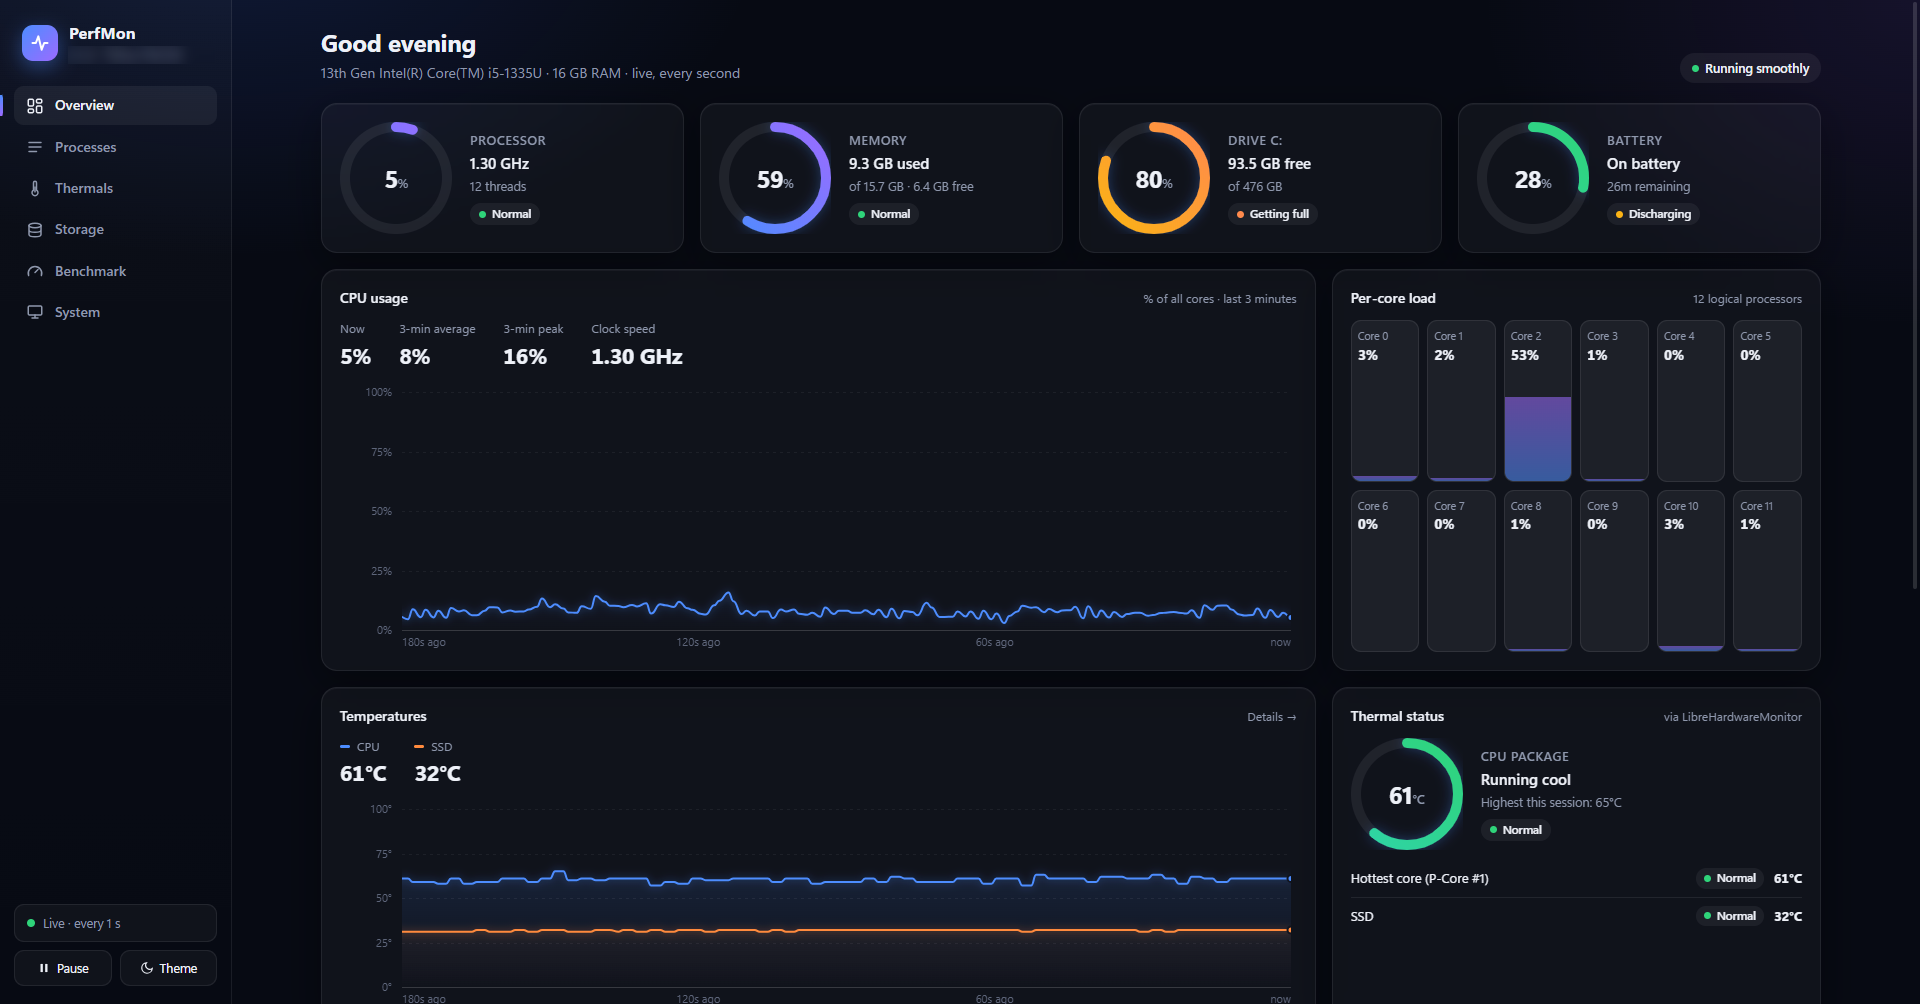
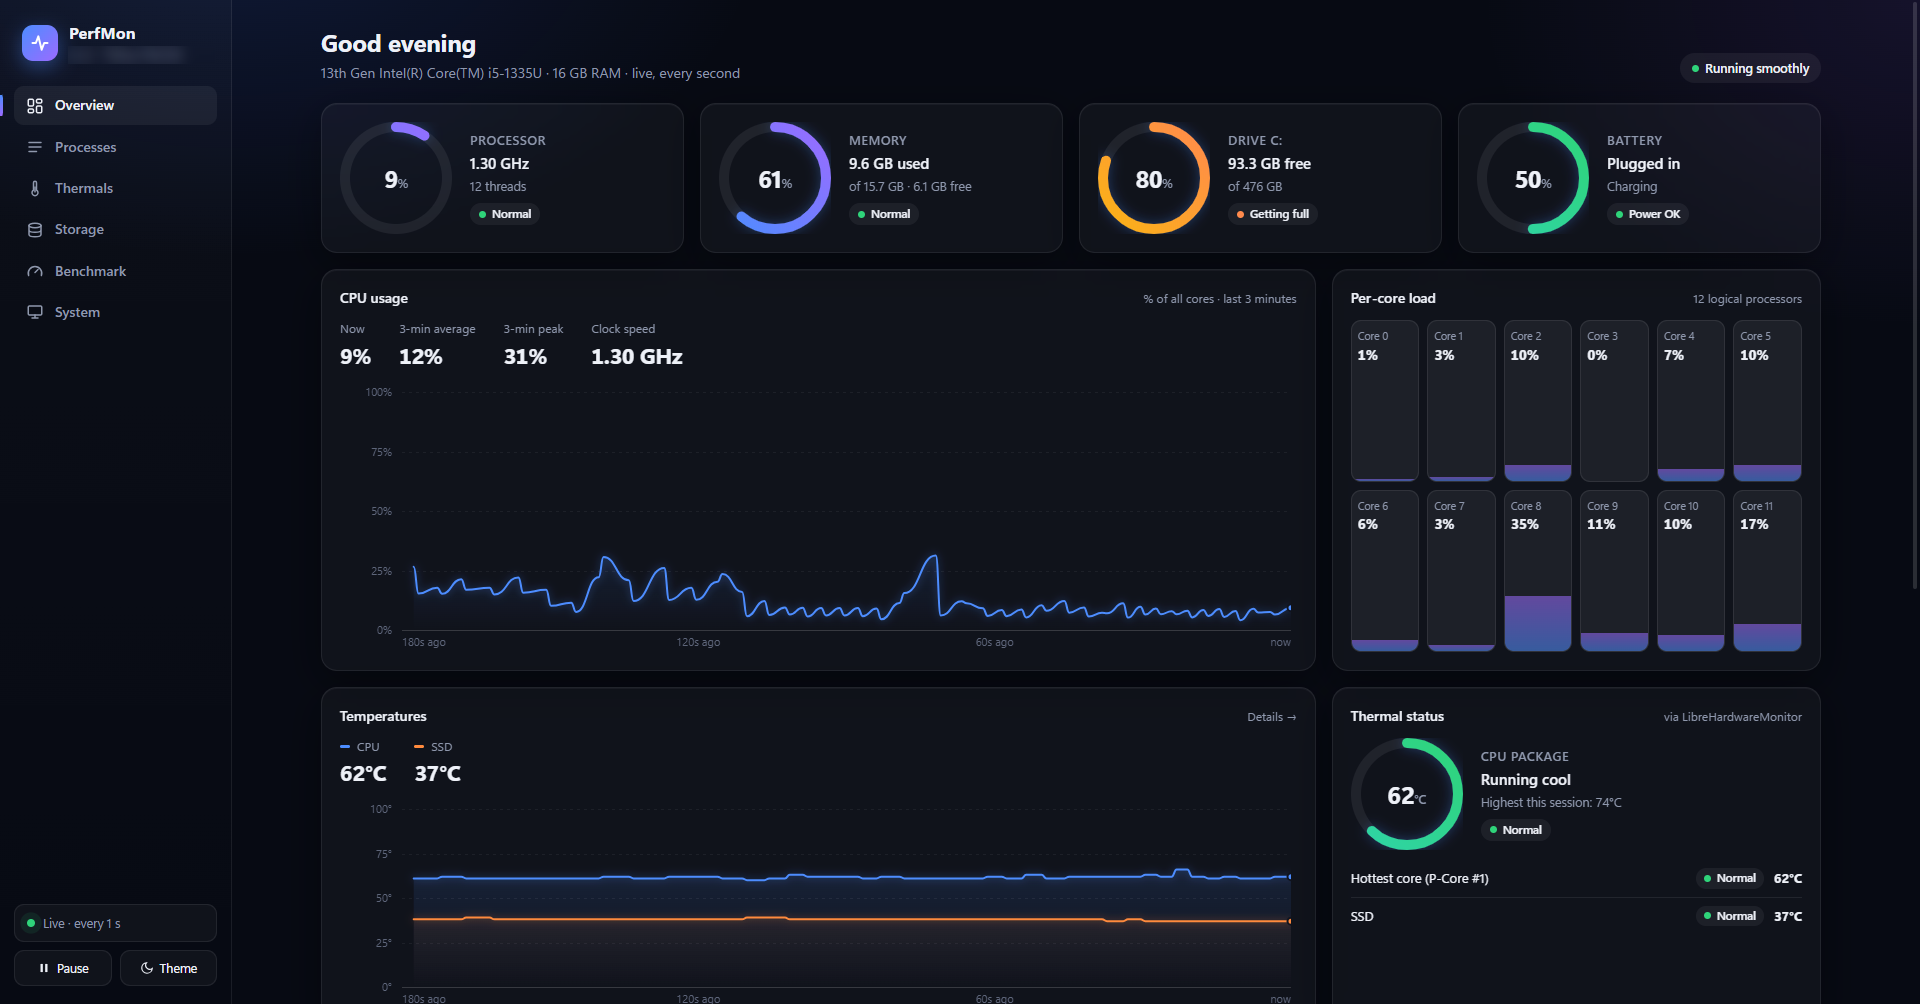
Add in-app updates, footer and refreshed screenshot (v1.2.2)
- Updater: checks the latest GitHub release at launch and every 6 h;
  "Update to vX" sidebar button and an Updates card on the System page.
  Download & install fetches PerfMon-Setup.exe, verifies it against the
  SHA-256 digest GitHub publishes (deleting it on mismatch), runs it with
  /SILENT so it upgrades in place keeping previous choices, and closes
  PerfMon; setup relaunches PerfMon after a silent install.
- Footer on every page: "Developed By Thilina Weerasinghe".
- Pages follow URL hash changes (#thermals etc.), not only on load.
- README: Updating section, endpoints, changelog; new overview screenshot.

diff --git a/static/index.html b/static/index.html
@@ -208,6 +208,26 @@ td.n, th.n { text-align: right; }
 .chip { display: inline-flex; align-items: center; gap: 6px; font-size: 11.5px; font-weight: 600; padding: 2px 8px; border-radius: 99px; background: var(--panel-hi); }
 .chip::before { content: ""; width: 7px; height: 7px; border-radius: 50%; background: var(--c); }
 
+/* updates */
+.upd-pill { display: flex; align-items: center; gap: 8px; padding: 9px 12px; border-radius: 10px; cursor: pointer;
+  font-size: 12.5px; font-weight: 600; color: #fff; background: linear-gradient(135deg, var(--acc-a), var(--acc-b));
+  box-shadow: 0 6px 18px rgba(77,141,255,.3); border: 0; text-align: left; }
+.upd { display: flex; gap: 20px; align-items: center; flex-wrap: wrap; }
+.upd .ic { width: 52px; height: 52px; border-radius: 15px; display: grid; place-items: center; flex: none;
+  background: linear-gradient(135deg, var(--acc-a), var(--acc-b)); box-shadow: 0 8px 24px rgba(77,141,255,.3); }
+.upd .txt { flex: 1; min-width: 260px; }
+.upd .txt b { font-size: 15px; } .upd .txt p { margin: 3px 0 0; color: var(--ink-2); }
+.upd .acts { display: flex; gap: 10px; align-items: center; flex-wrap: wrap; }
+.upd .meter { margin-top: 10px; max-width: 420px; }
+
+/* footer: shared by every page, pinned to the bottom when a page is short */
+main { display: flex; flex-direction: column; }
+.page { width: 100%; }
+.app-footer { margin: auto auto 0; padding: 28px 0 0; width: 100%; max-width: 1500px; text-align: center;
+  font-size: 12.5px; color: var(--ink-3); }
+.app-footer::before { content: ""; display: block; height: 1px; background: var(--line); margin-bottom: 16px; }
+.app-footer b { color: var(--ink-2); font-weight: 600; }
+
 /* system */
 .kv { display: grid; grid-template-columns: 160px 1fr; gap: 10px 16px; }
 .kv dt { color: var(--ink-2); } .kv dd { margin: 0; font-weight: 500; overflow-wrap: anywhere; }
@@ -238,6 +258,7 @@ td.n, th.n { text-align: right; }
     <a data-page="system"><svg viewBox="0 0 24 24" fill="none" stroke="currentColor" stroke-width="2" stroke-linecap="round"><rect x="3" y="4" width="18" height="12" rx="2"/><path d="M8 20h8M12 16v4"/></svg>System</a>
   </nav>
   <div class="side-foot">
+    <button class="upd-pill" id="updPill" hidden data-goto="system"><svg width="14" height="14" viewBox="0 0 24 24" fill="none" stroke="#fff" stroke-width="2.4" stroke-linecap="round" stroke-linejoin="round"><path d="M12 3v12M7 10l5 5 5-5M5 21h14"/></svg><span id="updPillText">Update available</span></button>
     <div class="pill"><i class="pulse off" id="liveDot"></i><span id="liveText">Connecting…</span></div>
     <div class="btn-row">
       <button id="pauseBtn" title="Pause live updates"><svg width="14" height="14" viewBox="0 0 24 24" fill="currentColor"><rect x="6" y="5" width="4" height="14" rx="1"/><rect x="14" y="5" width="4" height="14" rx="1"/></svg><span>Pause</span></button>
@@ -397,10 +418,24 @@ td.n, th.n { text-align: right; }
   <section class="page" id="p-system">
     <div class="page-head"><div><h1>System</h1><p>Hardware and software details</p></div></div>
     <div class="grid">
+      <div class="card c12" id="updCard">
+        <div class="upd">
+          <div class="ic"><svg width="24" height="24" viewBox="0 0 24 24" fill="none" stroke="#fff" stroke-width="2.2" stroke-linecap="round" stroke-linejoin="round"><path d="M12 3v12M7 10l5 5 5-5M5 21h14"/></svg></div>
+          <div class="txt"><b id="updTitle">Updates</b><p id="updText">Checking for updates…</p>
+            <div class="meter" id="updMeter" hidden><i id="updBar" style="width:0%;background:linear-gradient(90deg,var(--acc-a),var(--acc-b))"></i></div></div>
+          <div class="acts">
+            <a class="muted" id="updNotes" target="_blank" hidden>What's new</a>
+            <button id="updCheck">Check for updates</button>
+            <button class="cta" id="updInstall" hidden>Download &amp; install</button>
+          </div>
+        </div>
+      </div>
       <div class="card c6"><div class="card-h"><h3>This machine</h3></div><dl class="kv" id="sysinfo"></dl></div>
       <div class="card c6"><div class="card-h"><h3>Right now</h3></div><dl class="kv" id="sysnow"></dl></div>
     </div>
   </section>
+
+  <footer class="app-footer">Developed By <b>Thilina Weerasinghe</b></footer>
 </main>
 
 <script>
@@ -558,6 +593,7 @@ function go(page) {
   requestAnimationFrame(redrawAll);
 }
 document.querySelectorAll("#nav a, [data-goto]").forEach(a => a.onclick = () => go(a.dataset.page || a.dataset.goto));
+addEventListener("hashchange", () => go(location.hash.slice(1)));
 
 // ================= render =================
 const AV_COLORS = ["#4d8dff", "#ff8a3d", "#2fd4a7", "#e0a100", "#e2558b", "#25a244", "#8b6cf0", "#ec4f50"];
@@ -828,6 +864,53 @@ async function pollBench() {
   else if (st.error) $("benchWhen").textContent = "Error: " + st.error;
 }
 $("benchBtn").onclick = async () => { await fetch("/api/benchmark", { method: "POST" }); pollBench(); };
+
+// ================= updates =================
+function showUpdate(info) {
+  if (!info) return;
+  const pill = $("updPill"), btn = $("updInstall"), notes = $("updNotes");
+  if (!info.ok) { $("updTitle").textContent = `PerfMon ${info.current}`; $("updText").textContent = info.error + ". You can try again later."; btn.hidden = true; return; }
+  notes.hidden = !info.notes_url; notes.href = info.notes_url || "#";
+  if (info.available) {
+    pill.hidden = false; $("updPillText").textContent = `Update to v${info.latest}`;
+    $("updTitle").textContent = `PerfMon ${info.latest} is available`;
+    const size = info.asset?.size ? ` · ${fmtBytes(info.asset.size)}` : "";
+    $("updText").textContent = info.can_install
+      ? `You have ${info.current}. The installer is downloaded from GitHub, checked against its SHA-256${size}, then PerfMon restarts on the new version (approve the Windows prompt).`
+      : `You have ${info.current}. Download the new installer from the release page.`;
+    btn.hidden = false; btn.textContent = info.can_install ? `Download & install v${info.latest}` : "Open download page";
+  } else {
+    pill.hidden = true; btn.hidden = true;
+    $("updTitle").textContent = "You're up to date";
+    $("updText").textContent = `PerfMon ${info.current} is the latest version.`;
+  }
+}
+async function checkUpdates(force) {
+  $("updCheck").disabled = true; if (force) $("updText").textContent = "Checking for updates…";
+  try { showUpdate(await (await fetch(`/api/update/check${force ? "?force=1" : ""}`)).json()); } catch {}
+  $("updCheck").disabled = false;
+}
+async function pollInstall() {
+  const st = await (await fetch("/api/update/status")).json();
+  const m = $("updMeter"), bar = $("updBar"), t = $("updText");
+  if (st.phase === "downloading") { m.hidden = false; bar.style.width = (st.total ? st.done / st.total * 100 : 5) + "%";
+    t.textContent = `Downloading… ${fmtBytes(st.done)}${st.total ? " of " + fmtBytes(st.total) : ""}`; }
+  else if (st.phase === "verifying") t.textContent = "Verifying the download (SHA-256)…";
+  else if (st.phase === "launching" || st.phase === "closing") { bar.style.width = "100%";
+    t.textContent = "Starting the installer. Approve the Windows prompt; PerfMon will close and reopen on the new version."; return; }
+  else if (st.phase === "error") { m.hidden = true; t.textContent = "Update failed: " + st.error; $("updInstall").disabled = false; return; }
+  setTimeout(pollInstall, 400);
+}
+$("updCheck").onclick = () => checkUpdates(true);
+$("updInstall").onclick = async () => {
+  const info = await (await fetch("/api/update/check")).json();
+  if (!info.can_install) { if (info.notes_url) window.open(info.notes_url, "_blank"); return; }
+  $("updInstall").disabled = true;
+  await fetch("/api/update/install", { method: "POST" }); pollInstall();
+};
+// first check a few seconds after launch (the server also re-checks every 6 h)
+setTimeout(() => checkUpdates(false), 10000);
+setInterval(() => checkUpdates(false), 3600 * 1000);
 
 // ================= boot =================
 (async () => {

diff --git a/server.py b/server.py
@@ -25,7 +25,7 @@ from pathlib import Path
 import psutil
 
 APP_NAME = "PerfMon"
-APP_VERSION = "1.2.1"
+APP_VERSION = "1.2.2"
 HOST, PORT = "127.0.0.1", 8765
 INTERVAL = 1.0          # seconds between samples
 HISTORY = 300           # samples kept for the graphs (5 minutes)
@@ -425,6 +425,118 @@ def run_benchmark(progress):
     return res
 
 
+# --------------------------------------------------------------------------- #
+# Updates (GitHub releases)
+# --------------------------------------------------------------------------- #
+RELEASES_API = "https://api.github.com/repos/Sachintha1994/perfmon/releases/latest"
+UPDATE_ASSET = "PerfMon-Setup.exe"
+FROZEN = getattr(sys, "frozen", False)
+
+
+def _ver(v):
+    try:
+        return tuple(int(x) for x in str(v).lstrip("vV").split("-")[0].split("."))
+    except ValueError:
+        return (0,)
+
+
+class Updater:
+    """Checks the latest GitHub release; downloads, verifies (SHA-256) and launches its installer."""
+    lock = threading.Lock()
+    info = None          # last check result
+    checked_at = 0.0
+    state = {"phase": "idle", "done": 0, "total": 0, "error": None}
+
+    @classmethod
+    def check(cls, force=False):
+        if not force and cls.info and time.time() - cls.checked_at < 3600:
+            return cls.info
+        req = urllib.request.Request(RELEASES_API, headers={
+            "Accept": "application/vnd.github+json", "User-Agent": f"{APP_NAME}/{APP_VERSION}"})
+        try:
+            with urllib.request.urlopen(req, timeout=8) as r:
+                rel = json.loads(r.read().decode("utf-8"))
+        except Exception as e:
+            return {"current": APP_VERSION, "ok": False, "error": f"Couldn't reach GitHub ({e.__class__.__name__})"}
+        assets = [a for a in rel.get("assets", []) if a.get("name", "").lower().endswith(".exe")]
+        asset = next((a for a in assets if a["name"] == UPDATE_ASSET), assets[0] if assets else None)
+        latest = rel.get("tag_name", "").lstrip("vV")
+        digest = (asset or {}).get("digest") or ""
+        cls.info = {
+            "ok": True, "current": APP_VERSION, "latest": latest,
+            "available": bool(asset) and _ver(latest) > _ver(APP_VERSION),
+            "can_install": FROZEN and bool(asset) and digest.startswith("sha256:"),
+            "title": rel.get("name") or rel.get("tag_name"), "notes_url": rel.get("html_url"),
+            "published_at": rel.get("published_at"),
+            "asset": asset and {"name": asset["name"], "size": asset.get("size"),
+                                "url": asset.get("browser_download_url"),
+                                "sha256": digest.split(":", 1)[1] if digest.startswith("sha256:") else None},
+        }
+        cls.checked_at = time.time()
+        return cls.info
+
+    @classmethod
+    def install(cls):
+        with cls.lock:
+            if cls.state["phase"] in ("downloading", "verifying", "launching"):
+                return False
+            cls.state = {"phase": "downloading", "done": 0, "total": 0, "error": None}
+        threading.Thread(target=cls._run, daemon=True).start()
+        return True
+
+    @classmethod
+    def _run(cls):
+        st = cls.state
+        try:
+            info = cls.check(force=True)
+            if not info.get("ok"):
+                raise RuntimeError(info.get("error"))
+            if not info["available"]:
+                raise RuntimeError("You already have the latest version.")
+            if not info["can_install"]:
+                raise RuntimeError("This copy can't update itself (running from source, or the "
+                                   "release has no verifiable installer).")
+            a = info["asset"]
+            folder = Path(tempfile.gettempdir()) / "PerfMon-update"
+            folder.mkdir(exist_ok=True)
+            dest = folder / f"PerfMon-Setup-{info['latest']}.exe"
+            h = hashlib.sha256()
+            req = urllib.request.Request(a["url"], headers={"User-Agent": f"{APP_NAME}/{APP_VERSION}"})
+            with urllib.request.urlopen(req, timeout=30) as r, open(dest, "wb") as f:
+                st["total"] = int(r.headers.get("Content-Length") or a.get("size") or 0)
+                while chunk := r.read(256 * 1024):
+                    f.write(chunk)
+                    h.update(chunk)
+                    st["done"] += len(chunk)
+            st["phase"] = "verifying"
+            if h.hexdigest() != a["sha256"]:
+                dest.unlink(missing_ok=True)
+                raise RuntimeError("Downloaded file failed the SHA-256 check and was deleted.")
+            st["phase"] = "launching"
+            # Inno Setup elevates itself (UAC prompt), upgrades in place and relaunches PerfMon.
+            # /SILENT keeps the user's previous choices (e.g. temperature monitoring).
+            import ctypes
+            rc = ctypes.windll.shell32.ShellExecuteW(None, "open", str(dest),
+                                                    "/SILENT /SP- /NOCANCEL /RESTARTAPPLICATIONS", None, 1)
+            if rc <= 32:
+                raise RuntimeError(f"Couldn't start the installer (code {rc}).")
+            st["phase"] = "closing"
+            threading.Timer(2.0, lambda: os._exit(0)).start()  # let the installer replace our files
+        except Exception as e:
+            st.update(phase="error", error=str(e))
+
+
+def update_checker():
+    """Background check shortly after launch, then every 6 hours."""
+    time.sleep(8)
+    while True:
+        try:
+            Updater.check(force=True)
+        except Exception:
+            pass
+        time.sleep(6 * 3600)
+
+
 def load_bench_history():
     try:
         return json.loads(BENCH_FILE.read_text(encoding="utf-8"))
@@ -501,6 +613,10 @@ class Handler(BaseHTTPRequestHandler):
                 self._json(list(sampler.history))
         elif self.path == "/api/benchmark":
             self._json(Bench.state)
+        elif self.path.startswith("/api/update/check"):
+            self._json(Updater.check(force="force=1" in self.path))
+        elif self.path == "/api/update/status":
+            self._json({**Updater.state, "info": Updater.info})
         elif self.path == "/api/temps/status":
             self._json({"installed": bool(find_lhm_exe()), "bundled": BUNDLED_LHM.is_file(),
                         "task": sensor_task_exists(), "running": lhm_running(),
@@ -527,6 +643,9 @@ class Handler(BaseHTTPRequestHandler):
             self.send_error(404)
 
     def do_POST(self):
+        if self.path == "/api/update/install":
+            started = Updater.install()
+            return self._json({"started": started}, 202 if started else 409)
         if self.path == "/api/temps/start-lhm":
             try:
                 how = start_lhm()
@@ -563,6 +682,7 @@ def main():
         url += "/#" + sys.argv[sys.argv.index("--page") + 1]
     threading.Thread(target=srv.serve_forever, daemon=True).start()
     threading.Thread(target=autostart_sensors, daemon=True).start()
+    threading.Thread(target=update_checker, daemon=True).start()
 
     use_browser = "--browser" in sys.argv or os.environ.get("PERFMON_BROWSER") == "1"
     if os.environ.get("PERFMON_NO_BROWSER") == "1":

diff --git a/README.md b/README.md
@@ -29,7 +29,8 @@
 - **Storage** — used / free space for every drive.
 - **Benchmark** — a ~20 second test of single-core CPU, multi-core CPU, memory bandwidth and disk read/write speed, producing an overall score. Results are saved so you can track scores over time.
 - **GPU** — utilisation, temperature and VRAM are shown automatically on machines with an NVIDIA GPU (`nvidia-smi`).
-- **Dark and light themes**, native desktop window, no internet connection required.
+- **Built-in updates** — PerfMon tells you when a new version is out and can download, verify and install it for you ([details](#updating)).
+- **Dark and light themes**, native desktop window. Works offline (only the optional update check uses the internet).
 
 ## Download & install
 
@@ -52,6 +53,17 @@ Requires Windows 10 (1809 or later) or Windows 11, 64-bit, with the Microsoft Ed
 > **Windows SmartScreen:** the installer isn't code-signed yet, so Windows may show "Windows protected your PC". Click **More info → Run anyway**. Each release lists the installer's SHA-256 so you can verify the download.
 
 > **Upgrading from 1.0 or 1.1:** those versions installed per-user (in `%LOCALAPPDATA%\Programs\PerfMon`), while 1.2+ installs to Program Files. Uninstall the old version from **Settings → Apps** first so you don't end up with two copies. If you had installed LibreHardwareMonitor separately, exit it (tray icon → **Exit**) before installing, as it would occupy the port the bundled copy uses; you can then uninstall it.
+
+## Updating
+
+PerfMon checks GitHub for a newer release shortly after it starts and every few hours. When one is available:
+
+- an **Update to vX.Y.Z** button appears at the bottom of the sidebar, and
+- the **System** page shows an **Updates** card with **Download & install**, a link to what's new, and **Check for updates** to check right away.
+
+**Download & install** downloads `PerfMon-Setup.exe` from the latest GitHub release and checks it against the SHA-256 that GitHub publishes for the file. If it doesn't match, the file is deleted and nothing is installed. Then it starts the installer, which asks for administrator permission once. PerfMon closes, is upgraded in place with your previous setup choices, and reopens on the new version.
+
+The update check is a single anonymous request to the public GitHub API (`api.github.com/repos/Sachintha1994/perfmon/releases/latest`). No data about your computer is sent. If you're offline, the check just fails quietly. You can always update manually by running the newest installer from the [download link](https://github.com/Sachintha1994/perfmon/releases/latest/download/PerfMon-Setup.exe).
 
 ## Temperature monitoring
 
@@ -130,6 +142,9 @@ If Inno Setup isn't installed, step 5 is skipped and the portable app in `dist/P
 │   GET  /stream                 Server-Sent Events, 1 msg/second   │
 │   GET  /api/info               static system details              │
 │   GET  /api/history            last 5 minutes of samples          │
+│   GET  /api/update/check       newest GitHub release vs. this one │
+│   POST /api/update/install     download, verify, run installer    │
+│   GET  /api/update/status      download progress                  │
 │   GET  /api/temps/status       is LibreHardwareMonitor available  │
 │   POST /api/temps/start-lhm    launch LibreHardwareMonitor        │
 │   POST /api/benchmark          start a benchmark run              │
@@ -172,6 +187,8 @@ perfmon/
 `vendor/` (LibreHardwareMonitor and PawnIO downloaded by `build.bat`), `dist/`, `build/` and `installer/` are build output and not committed.
 
 ## Changelog
+
+**1.2.2** — In-app updates: PerfMon checks for new releases, and **Download & install** (System page, or the sidebar button) downloads the installer, verifies its SHA-256 and upgrades in place. Footer on every page: "Developed By Thilina Weerasinghe". Pages can be opened by URL hash (`#thermals`, …) at any time.
 
 **1.2.1** — Fix: 1.2.0 didn't create the sign-in task for the temperature sensors (a script error that setup didn't report). Setup now warns if this step fails, and stops any separately running LibreHardwareMonitor so the bundled copy can serve sensor data on port 8085.
 
